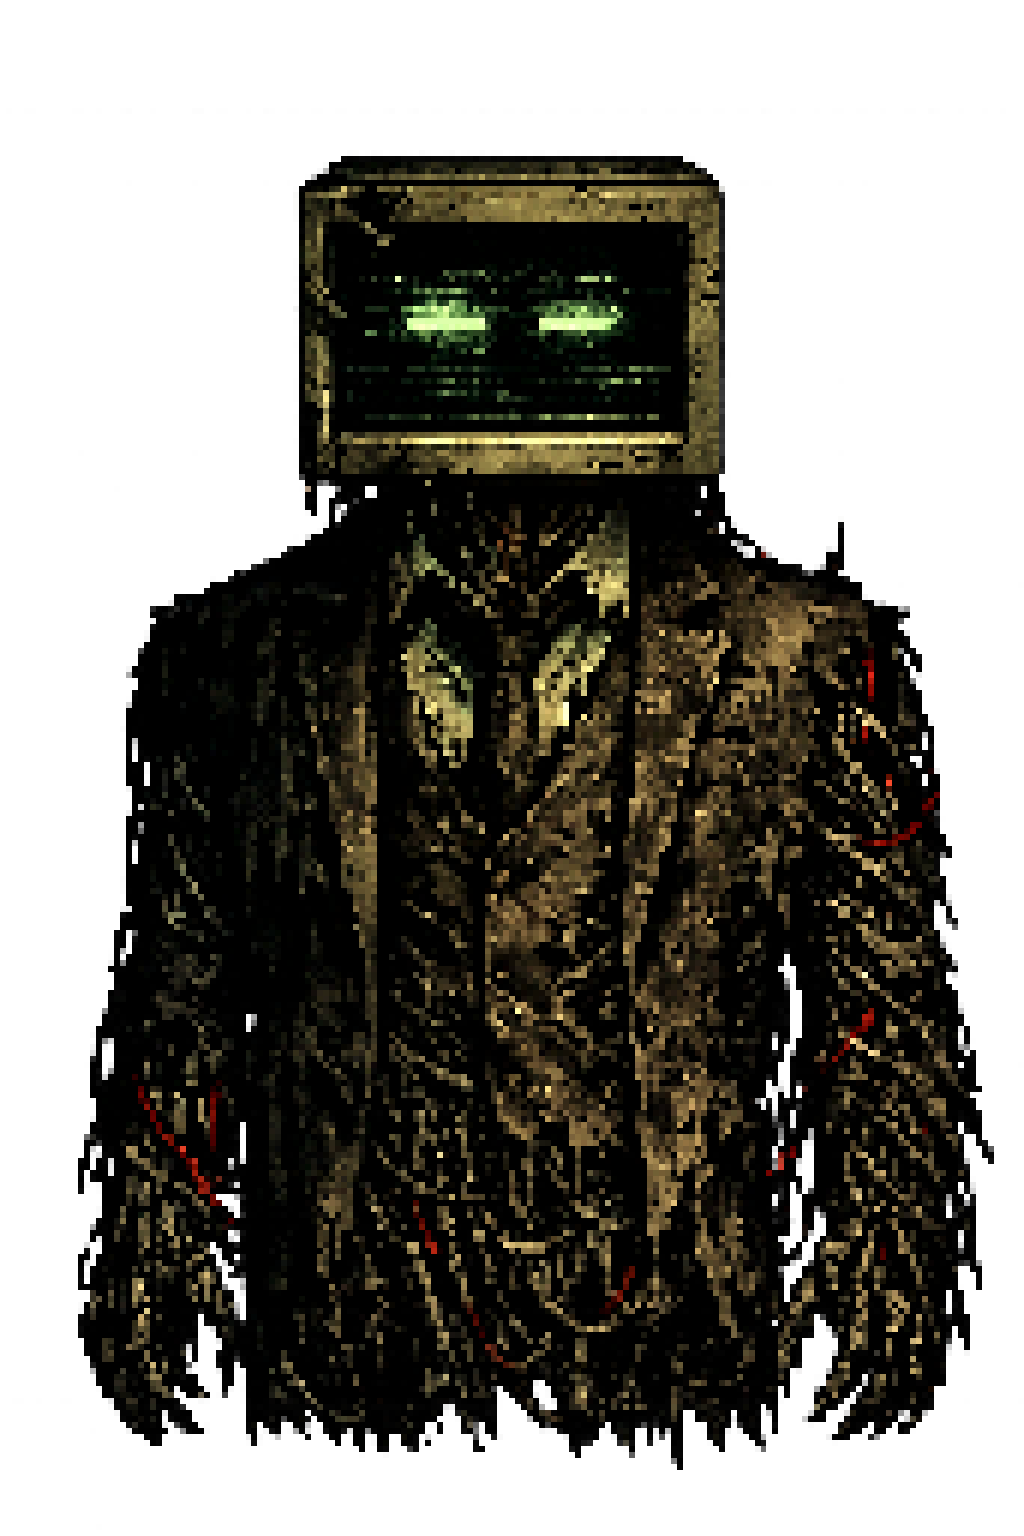
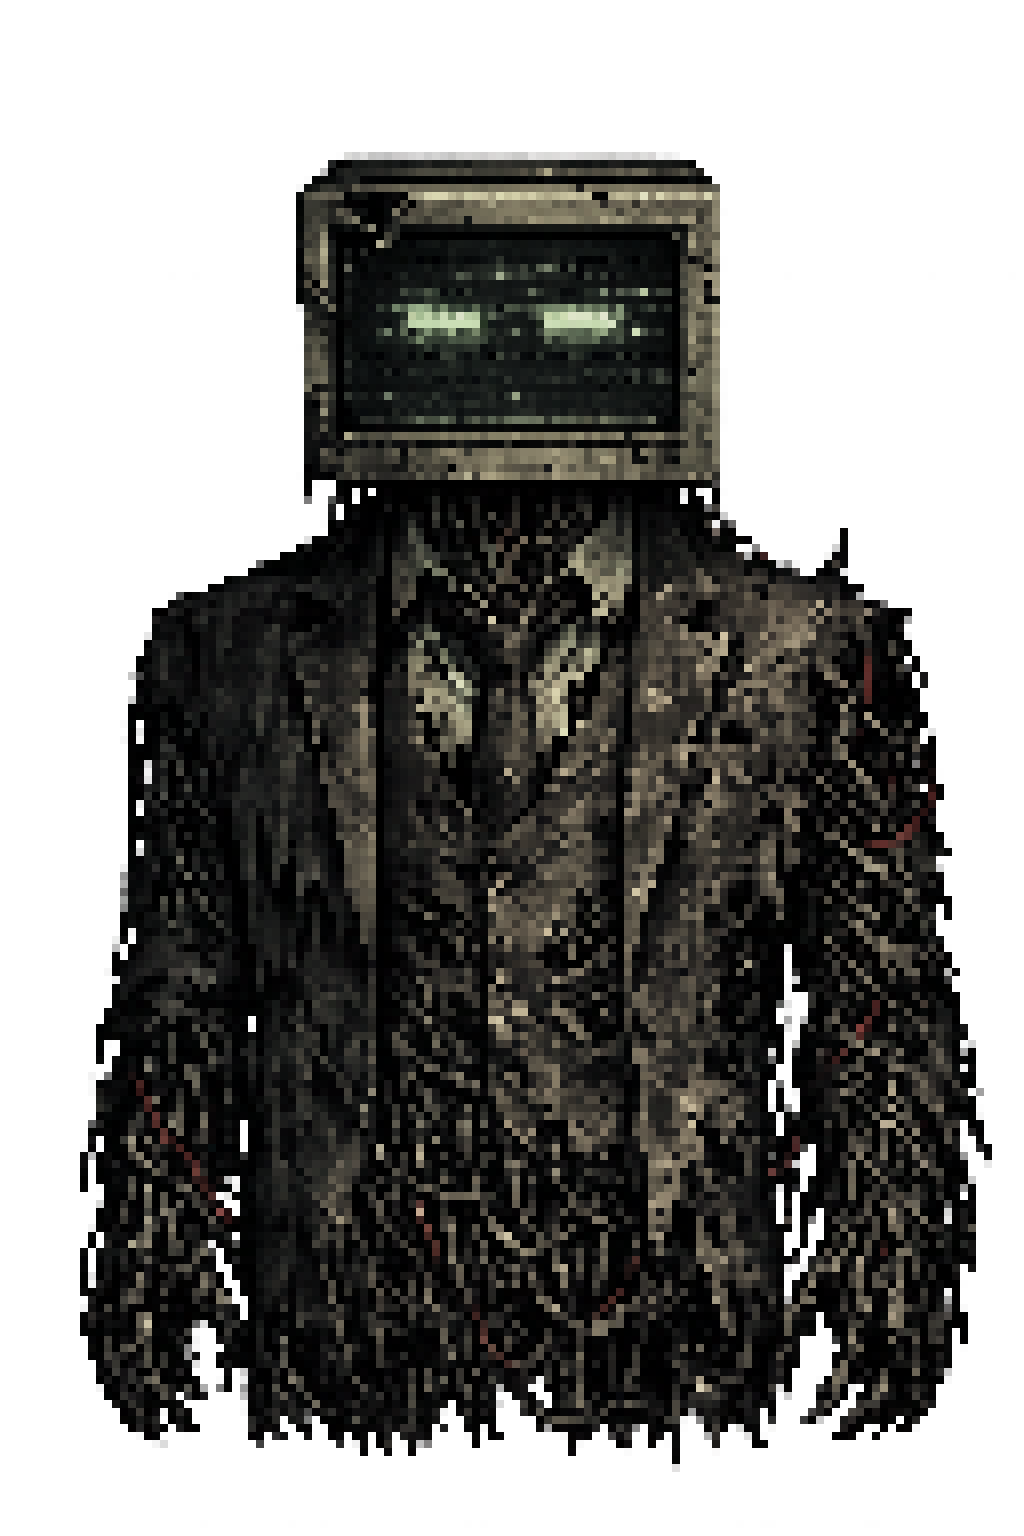
doneeeeeeeeeeeeeee

Changed region(s): [[0.0625, 0.0938, 0.9688, 0.9688]]

diff --git a/index.html b/index.html
@@ -252,6 +252,7 @@
 <audio id="footstep-sound" src="assets/audio/footsteps.mp3"></audio>
 <audio id="type-sound-ending" src="assets/audio/genericsound.mp3"></audio>
 <audio id="recovery-sound" src="assets/audio/recovery.mp3" preload="auto"></audio>
+<audio id="signal-lost-sound" src="assets/audio/signallost.mp3"></audio>
 
 
 
@@ -591,14 +592,14 @@ const footageDialogue = [
 
 const corruptedDialogue = [
     "[MAN] ...",
-    "[MAN] Why are you still here?",
+    "[MAN] YoU neEd tO go.",
     "[CAMERA] What the hell is wrong with your face?",
-    "[MAN] I told you.",
-    "[MAN] It's too late.",
-    "[MAN] It already sees you.",
+    "[MAN] I tOLd yOU.",
+    "[MAN] iT'S tOo LAte.",
+    "[MAN] It aLReaDy sEes YoU.",
     "[CAMERA] Who?!",
     "[MAN] ...",
-    "[MAN] Look behind you."
+    "[MAN] LOok beHinD yOu."
 ];
 
 
@@ -651,6 +652,14 @@ function switchToCorruptedFootage() {
     stopAllDialogue();
 
     const bg = document.getElementById("footage-bg");
+
+    // 👇 ADD THIS
+    const hotspot = document.querySelector(".character");
+
+    if (hotspot) {
+        hotspot.style.display = "none";
+        hotspot.style.pointerEvents = "none";
+    }
 
     if (!bg) {
         console.error("footage-bg not found ❌");
@@ -781,8 +790,12 @@ document.addEventListener("keydown", function(e) {
 // ================= ENDING =================
 
 function triggerEnding() {
+
     const camera = document.querySelector(".camera");
     const flash = document.getElementById("glitch-flash");
+
+    // 👇 NEW
+    const signalLost = document.getElementById("signal-lost-sound");
 
     camera.style.animation = "none";
     camera.offsetHeight;
@@ -791,6 +804,13 @@ function triggerEnding() {
 
     setTimeout(() => {
         camera.classList.add("fall");
+
+        // 👇 PLAY SIGNAL LOST SOUND
+        if (signalLost) {
+            signalLost.currentTime = 0;
+            signalLost.play().catch(() => {});
+        }
+
     }, 100);
 
     setTimeout(() => {
@@ -801,12 +821,21 @@ function triggerEnding() {
 
 // EXIT FROM FOOTAGE
 function exitFootage() {
+
+    // 👇 STOP SIGNAL LOST AUDIO
+    const signalLost = document.getElementById("signal-lost-sound");
+
+    if (signalLost) {
+        signalLost.pause();
+        signalLost.currentTime = 0;
+    }
+
     const loading = document.getElementById("loading-screen");
     loading.classList.add("active");
 
     setTimeout(() => {
         loading.classList.remove("active");
-        startReturnScene(); // 🔥 cleaner + reusable
+        startReturnScene();
     }, 1500);
 }
 
@@ -1110,7 +1139,7 @@ function chooseLeave() {
     container.innerHTML = "";
     container.style.display = "none";
 
-    showDialogue3("[ENTITY] DONT-.");
+    showDialogue3("[ENTITY] DON'T-");
 
     setTimeout(() => {
         endingLeave();

diff --git a/css/styles.css b/css/styles.css
@@ -565,14 +565,7 @@ body {
     z-index: 1; /* BELOW HOTSPOTS */
 }
 
-/* DARK MOOD OVERLAY */
-#footage-bg::after {
-    content: "";
-    position: absolute;
-    width: 100%;
-    height: 100%;
-    background: rgba(0,0,0,0.25);
-}
+
 
 /* CAMERA SCANLINES */
 .camera::after {
@@ -669,7 +662,7 @@ body {
 
 #footage-bg.corrupted {
     animation: glitchFlicker 0.2s infinite;
-    filter: contrast(1.4) brightness(0.9);
+    filter: contrast(1.2);
 }
 
 @keyframes glitchFlicker {